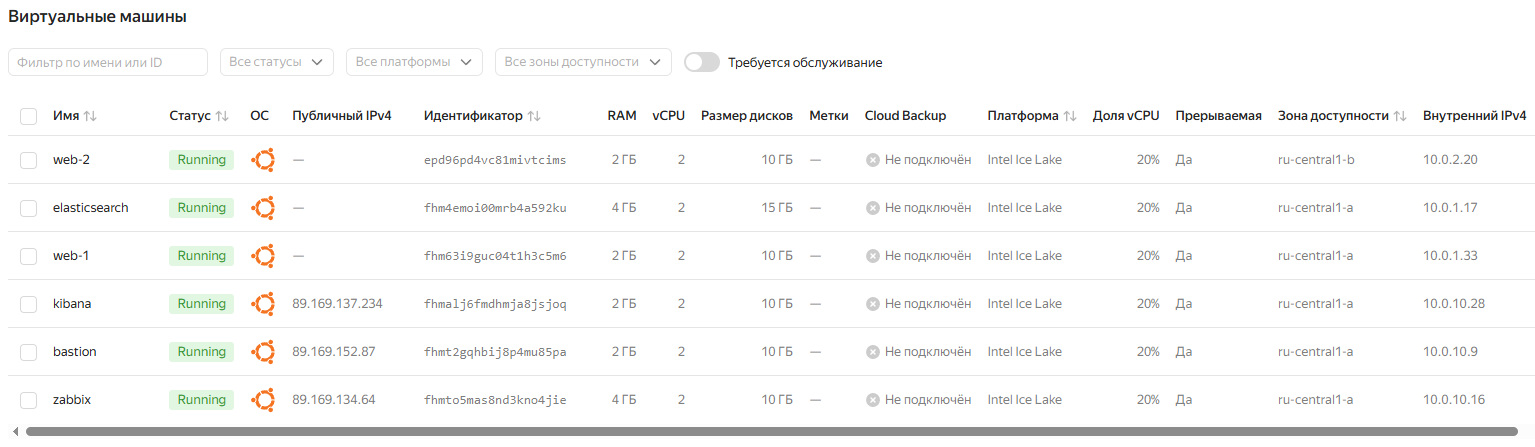
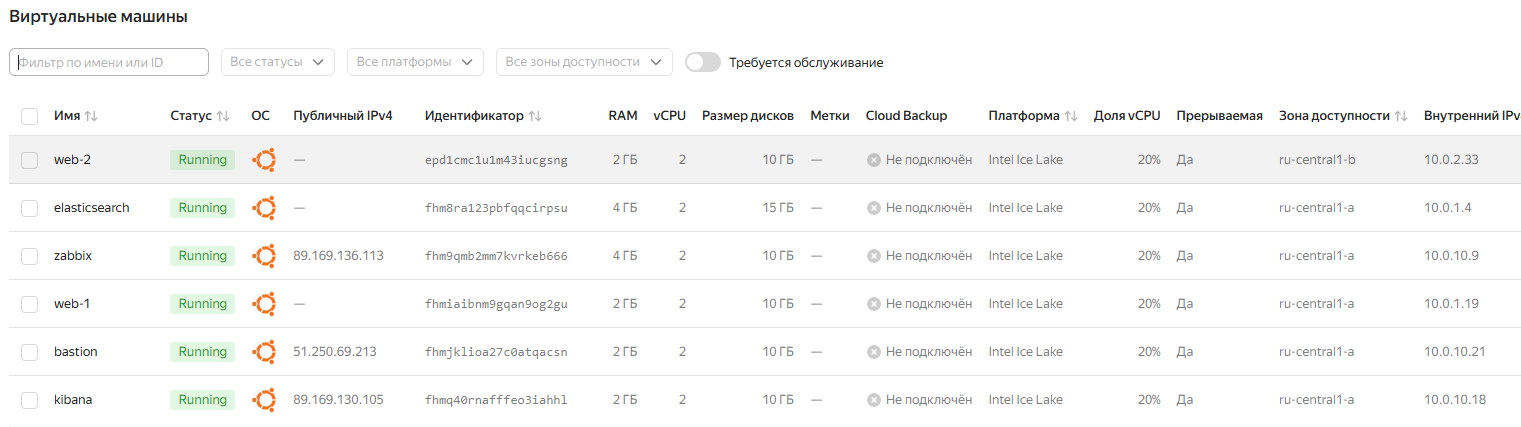
add monitoring and logs

diff --git a/README.md b/README.md
@@ -24,8 +24,35 @@ terraform apply
 ansible-playbook -i host.ini site.yml
 ```
 
-Теперь можем проверять работу сервисов.
+`Сайт`
 
-В частности работу баллансировщика можно проверить обновляя сайт работает по ссылке: http://158.160.151.128/
+Cсылка на сайт: http://158.160.151.128/
 
-Файлы для terraform и ansible лежат в директори:  [terraform](https://github.com/PhartomX/sys_dip_netology/tree/main/terraform)
+Работу баллансировщика можно проверить обновляя сайт.
+
+`Мониторинг`
+
+Добавляем все созданные ВМ на Zabbix-сервер:
+
+![img3](https://github.com/PhartomX/sys_dip_netology/blob/main/img/img3.png)
+
+Создаём дашборд для мониторинга ресурсов:
+
+![img4](https://github.com/PhartomX/sys_dip_netology/blob/main/img/img4.png)
+
+Просмотр возможен под пользователем `guest` по ссылке http://89.169.136.113:8080/
+
+`Логи`
+
+Подключаемся по ссылке http://89.169.130.105:5601/ , создаём 'Index patterns' в 'Kibana', переходим в 'Discover' и видим собранные логи.
+Для удобства отфильтровал логи и сохранил применённые фильтры под именем `SYS_DIP_LOG`:
+
+![img5](https://github.com/PhartomX/sys_dip_netology/blob/main/img/img5.png)
+
+
+`Сеть`
+
+Настройку сети можно посмотреть в файлах terraform.
+
+Файлы для terraform и ansible лежат в директори:
+[terraform](https://github.com/PhartomX/sys_dip_netology/tree/main/terraform)
